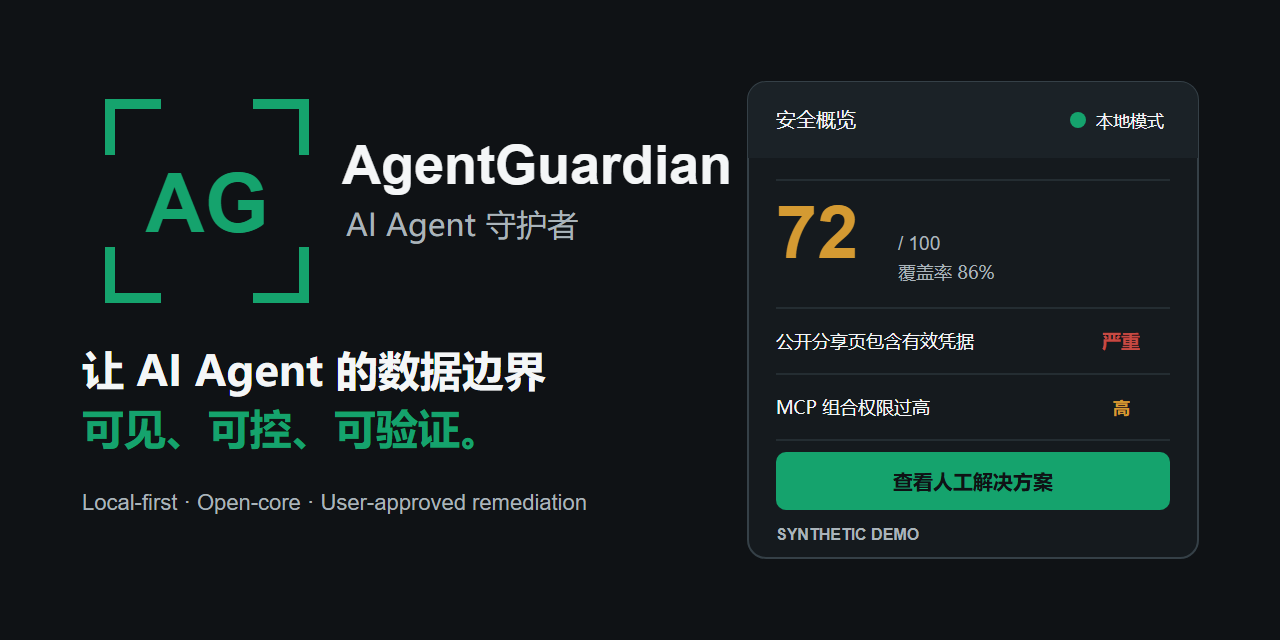
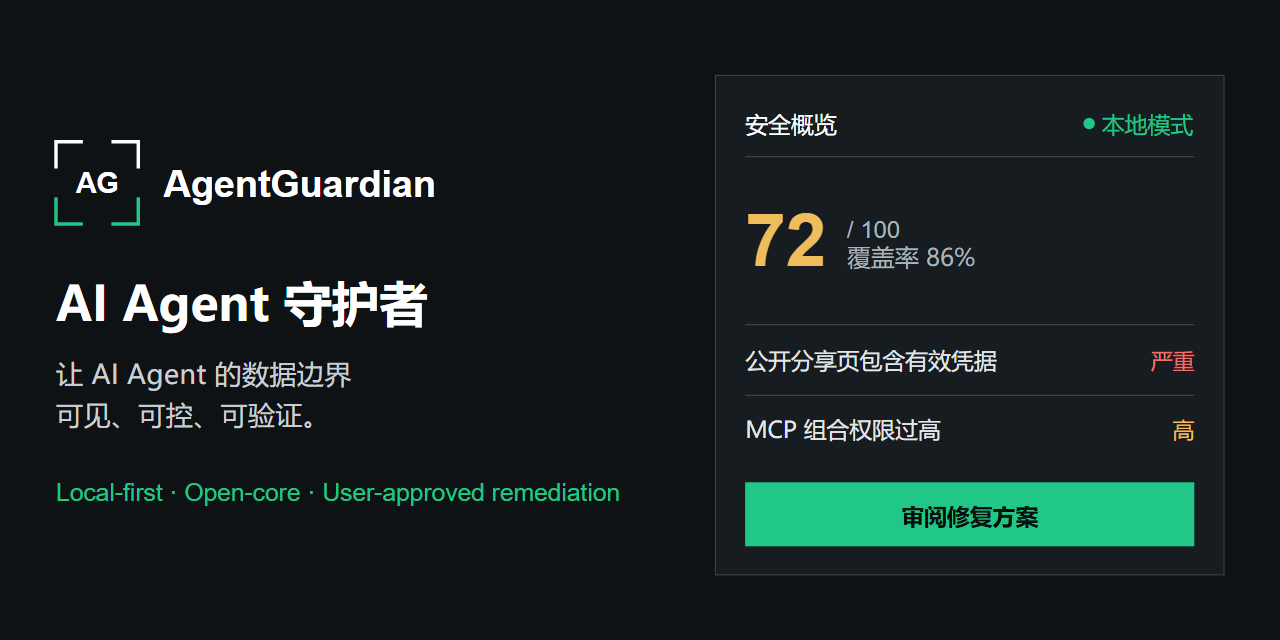
Restore approved AgentGuardian cover design

diff --git a/scripts/check_brand_assets.py b/scripts/check_brand_assets.py
@@ -43,12 +43,18 @@ def main() -> None:
         assert image.size == (1280, 640)
         assert image.mode in {"RGB", "RGBA"}
 
-    assert contrast("#15A36D", "#0F1215") >= 4.5
+    assert contrast("#21C786", "#0F1215") >= 4.5
     assert contrast("#0F1215", "#F4F6F7") >= 4.5
-    assert contrast("#D49A32", "#151A1E") >= 4.5
-    assert contrast("#C64A43", "#151A1E") >= 3.0
+    assert contrast("#AAB4BB", "#0F1215") >= 4.5
+    assert contrast("#F0BD5C", "#171C20") >= 4.5
+    assert contrast("#EF7167", "#171C20") >= 4.5
     cover = (BRAND / "agentguardian-cover.svg").read_text(encoding="utf-8")
-    assert "SYNTHETIC DEMO" in cover
+    for color in ("#0F1215", "#171C20", "#394149", "#21C786", "#AAB4BB", "#F0BD5C", "#EF7167"):
+        assert color in cover, color
+    assert "synthetic audit data" in cover
+    assert "审阅修复方案" in cover
+    assert "查看人工解决方案" not in cover
+    assert "rx=" not in cover
 
 
 if __name__ == "__main__":

diff --git a/docs/superpowers/plans/2026-08-01-agentguardian-founder-alpha.md b/docs/superpowers/plans/2026-08-01-agentguardian-founder-alpha.md
@@ -86,7 +86,7 @@ Expected: FAIL with `FileNotFoundError` for `assets/brand/agentguardian-mark.svg
 
 - [ ] **Step 3: Create the minimum deterministic SVG set**
 
-The mark uses a 512 square viewBox, open corner strokes, Obsidian `#0F1215`, Trust `#15A36D`, and a centered `AG` monogram. The broader system uses Cloud `#F4F6F7`, Signal `#2A8CCB`, Warning `#D49A32`, and Critical `#C64A43`. The GitHub cover uses an opaque Obsidian background. Use SVG paths/shapes only; do not embed raster images. The wordmark and cover may use the fallback stack `Inter, 'Noto Sans SC', 'Segoe UI', sans-serif` with `letter-spacing="0"`.
+The mark uses a 512 square viewBox, open corner strokes, Obsidian `#0F1215`, Cloud `#F4F6F7`, Trust `#21C786`, and a centered `AG` monogram. The broader system uses Surface `#171C20`, Border `#394149`, Muted `#AAB4BB`, Warning `#F0BD5C`, and Critical `#EF7167`. The GitHub cover uses the approved opaque Obsidian layout shown in the design reference. Use SVG paths/shapes only; do not embed raster images. The wordmark and cover may use the fallback stack `Inter, 'Noto Sans SC', 'Segoe UI', sans-serif` with `letter-spacing="0"`.
 
 - [ ] **Step 4: Render the three required PNG exports**
 
@@ -397,7 +397,7 @@ Use a left navigation list and a stacked content area. Alpha pages are Scope, Fi
 
 - [ ] **Step 3: Apply fixed design tokens**
 
-Use Obsidian, Cloud, Trust, Signal, Warning, and Critical from the design spec; neutral black, white, and gray establish hierarchy, Trust marks verified states, Warning and Critical mark risk, and Signal remains auxiliary; 6px maximum corner radius; 0 letter spacing; system font fallback; no gradients and no decorative cards.
+Use Obsidian, Cloud, Surface, Border, Trust, Muted, Warning, and Critical from the design spec; Trust marks verified states, Warning and Critical mark risk, and neutral tones establish hierarchy; 6px maximum corner radius; 0 letter spacing; system font fallback; no gradients and no decorative cards.
 
 - [ ] **Step 4: Smoke test and commit**
 

diff --git a/docs/superpowers/specs/2026-08-01-agentguardian-design.md b/docs/superpowers/specs/2026-08-01-agentguardian-design.md
@@ -199,7 +199,7 @@ Founder Alpha 后用 5 至 7 周硬化为可邀请试用的 Windows MVP：增加
 - 中文：让 AI Agent 的数据边界可见、可控、可验证。
 - 英文：Local-first · Open-core · User-approved remediation.
 
-基础色：Obsidian `#0F1215`、Cloud `#F4F6F7`、Trust `#15A36D`、Signal `#2A8CCB`、Warning `#D49A32`、Critical `#C64A43`。LOGO 同时提供 SVG、PNG、深色和浅色版本；GitHub 初代封面采用 1280 × 640，展示 Trust Frame、产品名、文案和审计概览，不放真实用户数据。
+基础色：Obsidian `#0F1215`、Cloud `#F4F6F7`、Surface `#171C20`、Border `#394149`、Trust `#21C786`、Muted `#AAB4BB`、Warning `#F0BD5C`、Critical `#EF7167`。LOGO 同时提供 SVG、PNG、深色和浅色版本；GitHub 初代封面采用 1280 × 640，严格使用已确认的深色 Trust Frame 版式，展示产品名、文案和审计概览，不放真实用户数据。
 
 ## 13. Alpha 发布门
 

diff --git a/assets/brand/README.md b/assets/brand/README.md
@@ -8,10 +8,12 @@
 
 - Obsidian: `#0F1215`
 - Cloud: `#F4F6F7`
-- Trust: `#15A36D`
-- Signal: `#2A8CCB`
-- Warning: `#D49A32`
-- Critical: `#C64A43`
+- Surface: `#171C20`
+- Border: `#394149`
+- Trust: `#21C786`
+- Muted: `#AAB4BB`
+- Warning: `#F0BD5C`
+- Critical: `#EF7167`
 
 资产：
 
@@ -21,4 +23,4 @@
 - `agentguardian-cover.svg`：1280 × 640 GitHub 初代封面，数据明确为 `SYNTHETIC DEMO`。
 - PNG 文件是对应的发布预览，不替代 SVG 源文件。
 
-16px 以下只使用 mark，不使用 wordmark。浅色背景上的关键笔画和文字使用 Obsidian；深色背景上的 Trust 可承载文字和关键图形。Warning、Critical 和 Signal 只作状态或辅助信号，关键状态同时显示文字。
+16px 以下只使用 mark，不使用 wordmark。浅色版使用 Obsidian 与 Trust，深色版使用 Cloud 与 Trust；Warning 和 Critical 只作状态信号，关键状态同时显示文字。
